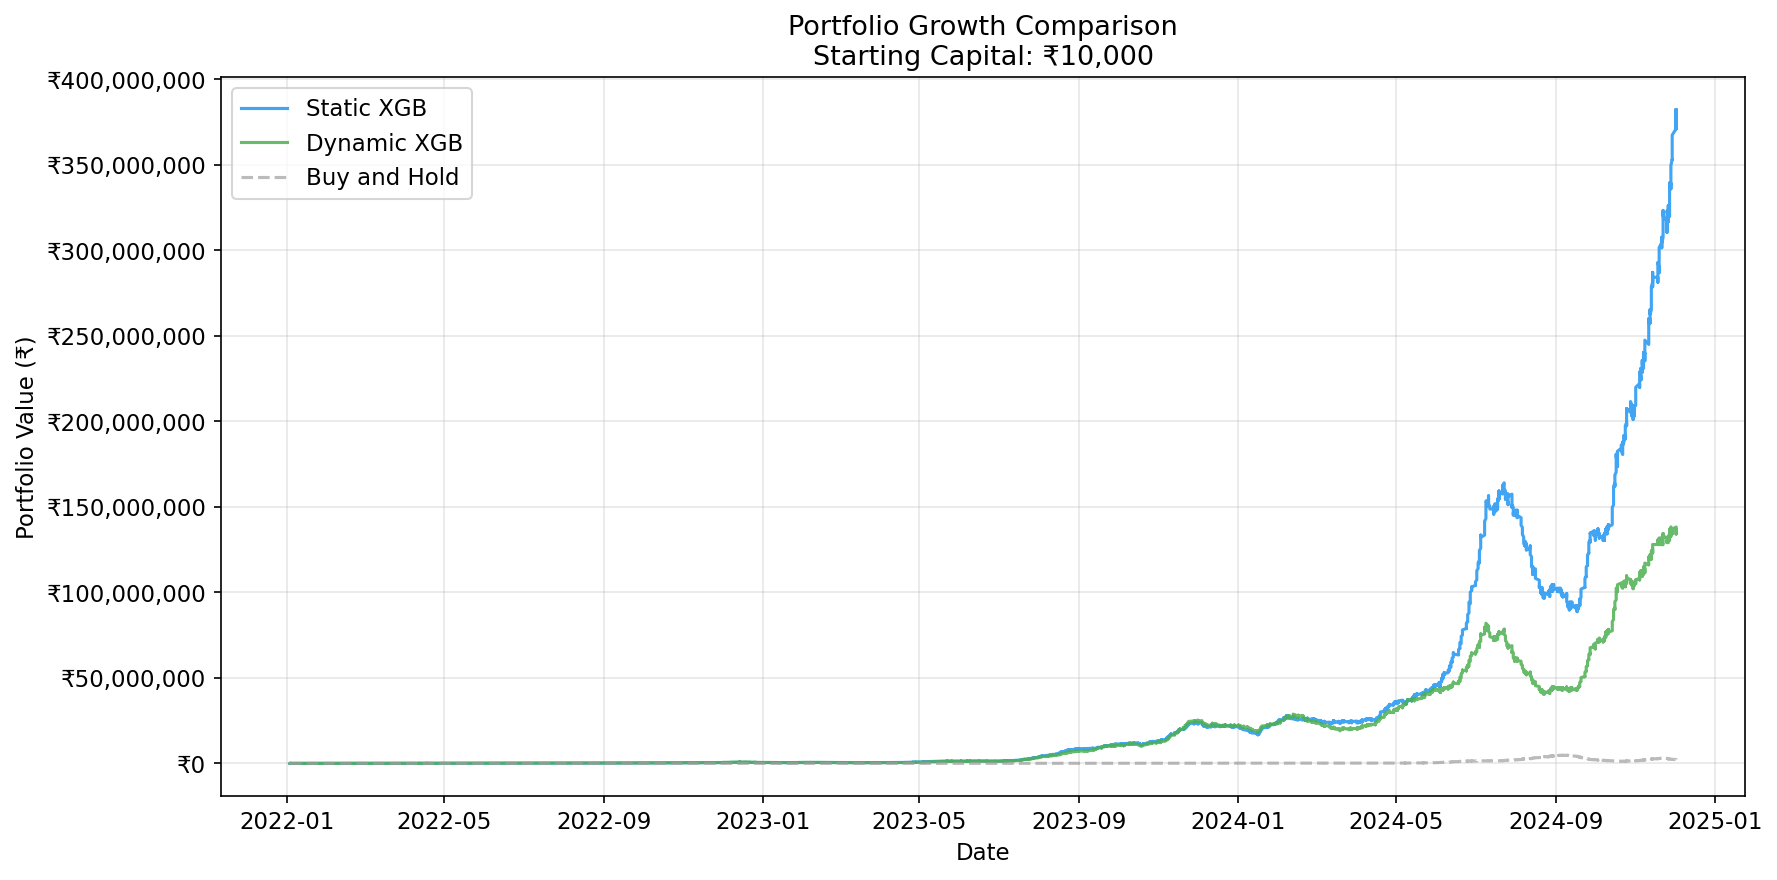
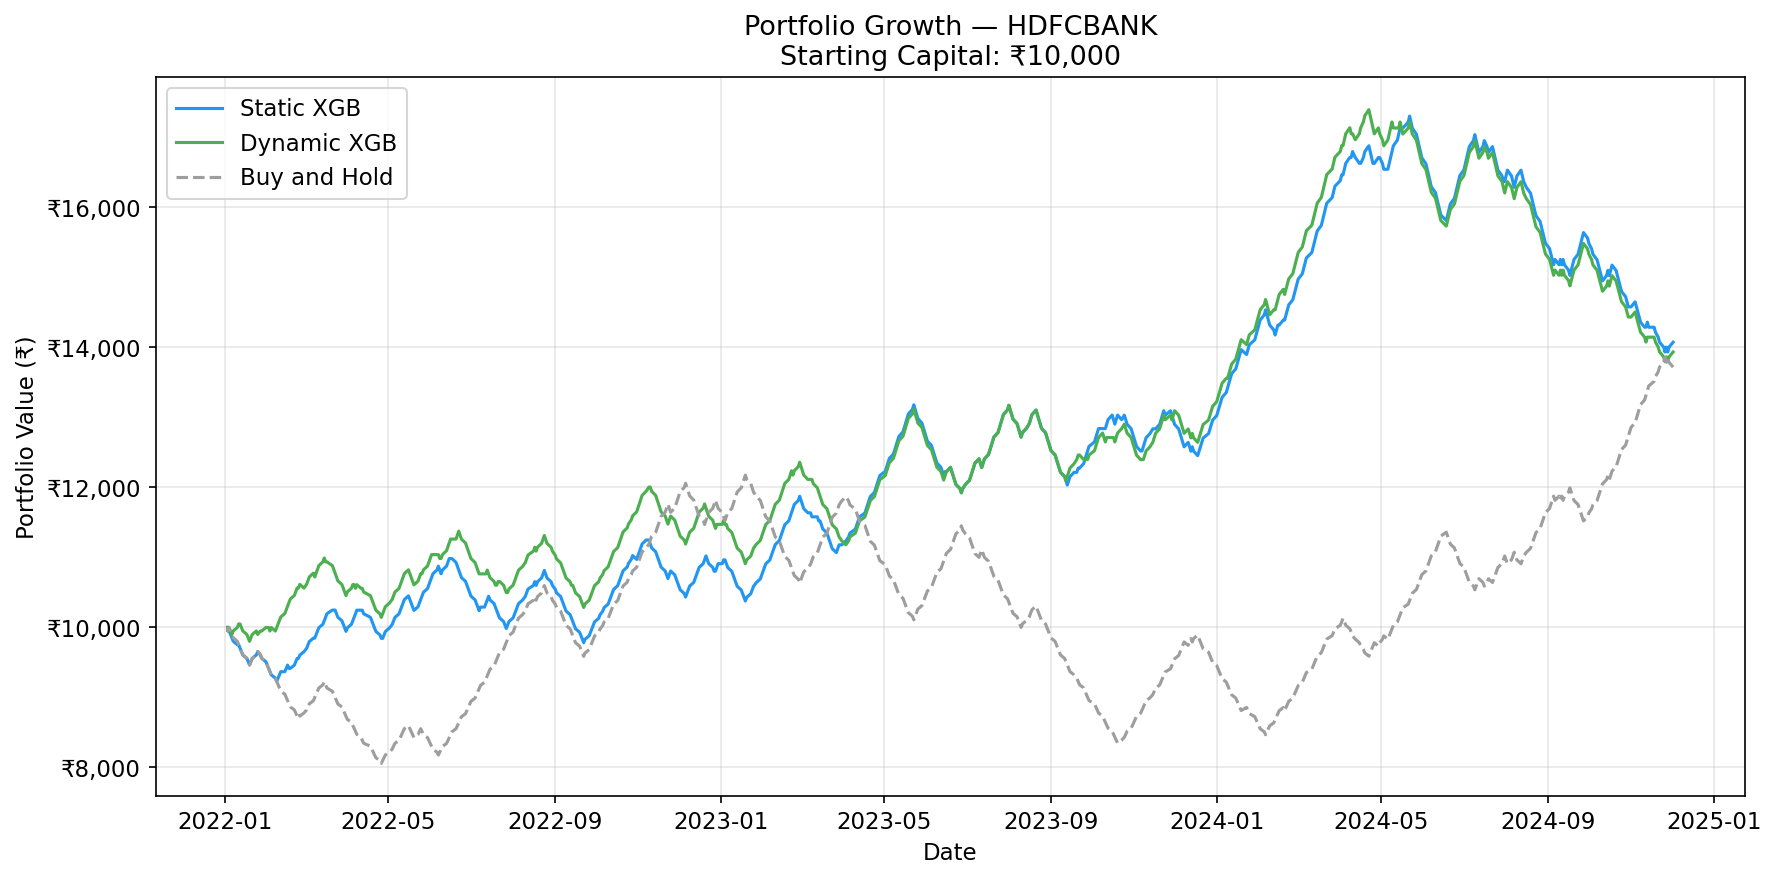
update

diff --git a/src/evaluation/evaluation.py b/src/evaluation/evaluation.py
@@ -460,15 +460,213 @@ def financial_metrics(df):
     df['predict_date'] = pd.to_datetime(
         df['predict_date']
     )
-    df = df.sort_values('predict_date')
-
-    # Simulate daily return
-    # We use Binary_Target as proxy for actual return
-    # 1 = Up day, 0 = Down day
-    # Return = +1% for Up, -1% for Down (simplified)
-    df['daily_return'] = df['actual_target'].apply(
-        lambda x: 0.01 if x == 1 else -0.01
+    df = df.sort_values(
+        ['stock', 'predict_date']
     )
+
+    def simulate_one_stock(stock_df, pred_col):
+        """
+        Simulate portfolio for one stock.
+        Start: 10000
+        BUY  signal → gain if actual=Up
+        SELL signal → gain if actual=Down
+        NO TRADE    → no change
+        Use realistic +/-0.5% per trade return.
+        """
+        portfolio = 10000.0
+        values    = [portfolio]
+        wins      = 0
+        trades    = 0
+
+        for _, row in stock_df.iterrows():
+            pred   = row[pred_col]
+            actual = row['actual_target']
+
+            if pred == 1:    # BUY
+                ret = 0.005 if actual == 1 else -0.005
+                portfolio *= (1 + ret)
+                trades    += 1
+                if actual == 1:
+                    wins += 1
+            elif pred == 0:  # SELL
+                ret = 0.005 if actual == 0 else -0.005
+                portfolio *= (1 + ret)
+                trades    += 1
+                if actual == 0:
+                    wins += 1
+
+            values.append(portfolio)
+
+        win_rate = wins/trades*100 if trades > 0 else 0
+        return values, win_rate, trades
+
+    def sharpe(values):
+        rets = np.diff(values) / np.array(values[:-1])
+        if rets.std() == 0:
+            return 0.0
+        return (rets.mean() / rets.std()) * np.sqrt(252)
+
+    def mdd(values):
+        v    = np.array(values)
+        peak = np.maximum.accumulate(v)
+        dd   = (v - peak) / peak
+        return dd.min() * 100
+
+    def roi(values):
+        return (values[-1] - values[0]) / values[0] * 100
+
+    # Per stock simulation then average
+    stocks         = df['stock'].unique()
+    s_rois, d_rois = [], []
+    s_srs,  d_srs  = [], []
+    s_mdds, d_mdds = [], []
+    s_wrs,  d_wrs  = [], []
+    s_trds, d_trds = [], []
+
+    print(f"\n  {'Stock':<12} "
+          f"{'S-ROI':>8} {'D-ROI':>8} "
+          f"{'S-SR':>7} {'D-SR':>7}")
+    print(f"  {'─'*12} "
+          f"{'─'*8} {'─'*8} "
+          f"{'─'*7} {'─'*7}")
+
+    for stock in stocks:
+        sdf = df[df['stock'] == stock]
+
+        sv, s_wr, s_tr = simulate_one_stock(
+            sdf, 'static_pred'
+        )
+        dv, d_wr, d_tr = simulate_one_stock(
+            sdf, 'dynamic_pred'
+        )
+
+        s_rois.append(roi(sv))
+        d_rois.append(roi(dv))
+        s_srs.append(sharpe(sv))
+        d_srs.append(sharpe(dv))
+        s_mdds.append(mdd(sv))
+        d_mdds.append(mdd(dv))
+        s_wrs.append(s_wr)
+        d_wrs.append(d_wr)
+        s_trds.append(s_tr)
+        d_trds.append(d_tr)
+
+        print(f"  {stock:<12} "
+              f"{roi(sv):>7.1f}% "
+              f"{roi(dv):>7.1f}% "
+              f"{sharpe(sv):>6.3f} "
+              f"{sharpe(dv):>6.3f}")
+
+    # Averages
+    print(f"  {'─'*12} "
+          f"{'─'*8} {'─'*8} "
+          f"{'─'*7} {'─'*7}")
+    print(f"  {'AVERAGE':<12} "
+          f"{np.mean(s_rois):>7.1f}% "
+          f"{np.mean(d_rois):>7.1f}% "
+          f"{np.mean(s_srs):>6.3f} "
+          f"{np.mean(d_srs):>6.3f}")
+
+    # Final summary table
+    metrics = {
+        'Metric'      : [
+            'Avg ROI (%)',
+            'Avg Sharpe Ratio',
+            'Avg Max Drawdown (%)',
+            'Avg Win Rate (%)',
+            'Avg Trades per Stock'
+        ],
+        'Static XGB'  : [
+            f"{np.mean(s_rois):.2f}%",
+            f"{np.mean(s_srs):.3f}",
+            f"{np.mean(s_mdds):.2f}%",
+            f"{np.mean(s_wrs):.2f}%",
+            f"{int(np.mean(s_trds))}"
+        ],
+        'Dynamic XGB' : [
+            f"{np.mean(d_rois):.2f}%",
+            f"{np.mean(d_srs):.3f}",
+            f"{np.mean(d_mdds):.2f}%",
+            f"{np.mean(d_wrs):.2f}%",
+            f"{int(np.mean(d_trds))}"
+        ]
+    }
+
+    print(f"\n  {'Metric':<24} "
+          f"{'Static XGB':>12} "
+          f"{'Dynamic XGB':>13}")
+    print(f"  {'─'*24} {'─'*12} {'─'*13}")
+
+    mdf = pd.DataFrame(metrics)
+    for _, row in mdf.iterrows():
+        print(f"  {row['Metric']:<24} "
+              f"{row['Static XGB']:>12} "
+              f"{row['Dynamic XGB']:>13}")
+
+    # Save
+    mdf.to_csv(
+        os.path.join(METRICS_DIR,
+                     'financial_metrics.csv'),
+        index=False
+    )
+    print(f"\n  ✅ Saved: financial_metrics.csv")
+
+    # Portfolio graph — use one representative stock
+    rep_stock = df[
+        df['stock'] == stocks[0]
+    ].sort_values('predict_date')
+
+    sv, _, _ = simulate_one_stock(
+        rep_stock, 'static_pred'
+    )
+    dv, _, _ = simulate_one_stock(
+        rep_stock, 'dynamic_pred'
+    )
+    bh = [10000.0]
+    for _, row in rep_stock.iterrows():
+        ret = 0.005 if row['actual_target'] == 1 \
+              else -0.005
+        bh.append(bh[-1] * (1 + ret))
+
+    dates = (
+        [rep_stock['predict_date'].iloc[0]] +
+        rep_stock['predict_date'].tolist()
+    )
+
+    fig, ax = plt.subplots(figsize=(12, 6))
+    ax.plot(dates, sv, label='Static XGB',
+            color=COLORS['static'],
+            linewidth=1.5)
+    ax.plot(dates, dv, label='Dynamic XGB',
+            color=COLORS['dynamic'],
+            linewidth=1.5)
+    ax.plot(dates, bh, label='Buy and Hold',
+            color=COLORS['neutral'],
+            linewidth=1.5, linestyle='--')
+
+    ax.set_xlabel('Date')
+    ax.set_ylabel('Portfolio Value (₹)')
+    ax.set_title(
+        f'Portfolio Growth — {stocks[0]}\n'
+        f'Starting Capital: ₹10,000'
+    )
+    ax.legend()
+    ax.grid(alpha=0.3)
+    ax.yaxis.set_major_formatter(
+        plt.FuncFormatter(
+            lambda x, p: f'₹{x:,.0f}'
+        )
+    )
+    plt.tight_layout()
+    plt.savefig(
+        os.path.join(GRAPHS_DIR,
+                     'portfolio_growth.png'),
+        bbox_inches='tight'
+    )
+    plt.close()
+    print(f"  ✅ Graph 6 saved: portfolio_growth.png")
+
+    return mdf
 
     def simulate_portfolio(
         predictions, daily_returns,
